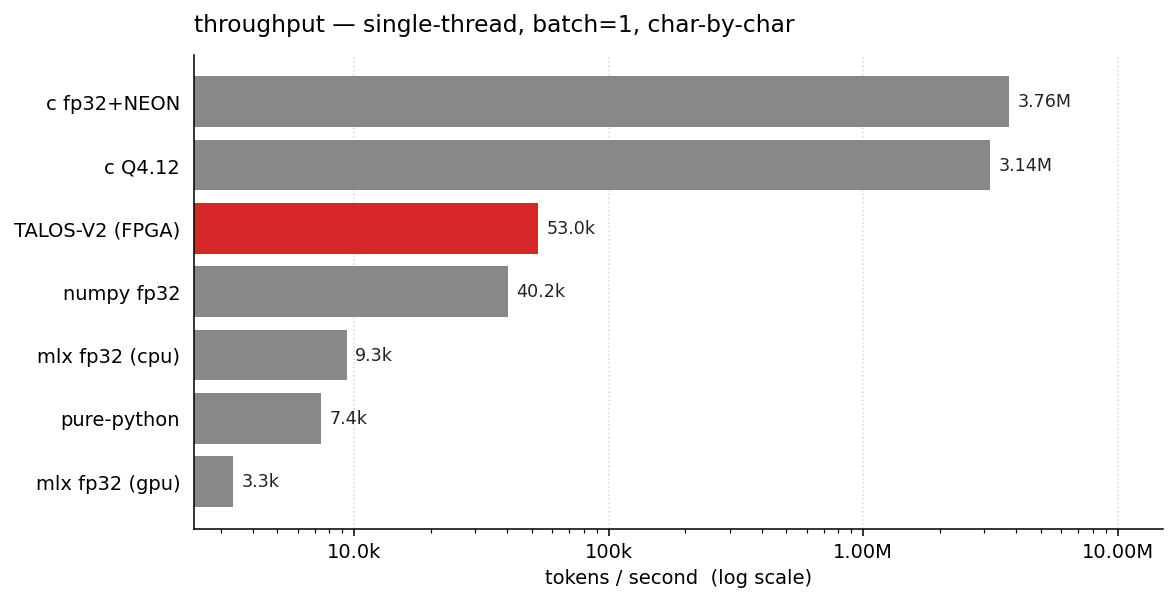
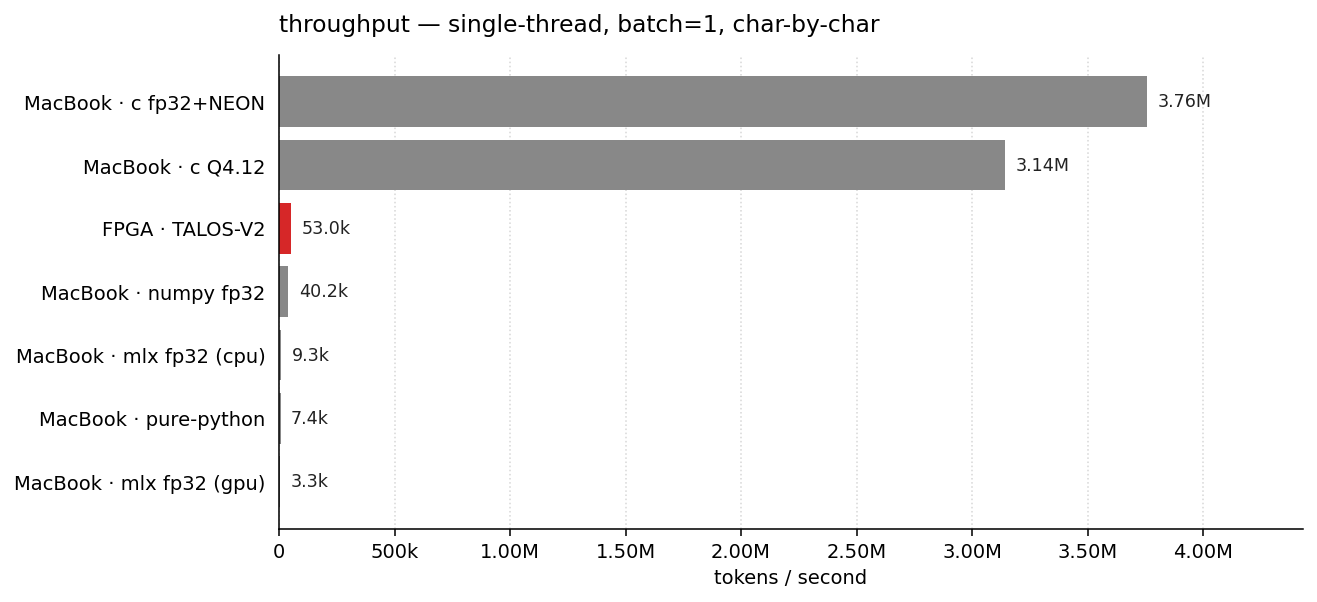
make charts honest - linear scale, MacBook/FPGA prefixes
Log scale was visually flattening the 70x throughput gap. Linear scale
shows TALOS as the small red sliver it actually is next to the C bars.
Labels now prefix each impl with "MacBook ·" or "FPGA ·" so the platform
is unambiguous.

diff --git a/make_charts.py b/make_charts.py
@@ -15,13 +15,13 @@ import matplotlib.ticker as mtick
 # Power is rough: ~5 W per active M4 Max core (Apple's published per-core
 # numbers under SIMD load); ~2 W for the Cyclone V FPGA fabric on the DE1-SoC.
 RESULTS = [
-    ("pure-python",         7_430,    5.0),
-    ("numpy fp32",         40_244,    5.0),
-    ("mlx fp32 (cpu)",      9_350,    5.0),
-    ("mlx fp32 (gpu)",      3_337,    5.0),
-    ("c fp32+NEON",     3_756_165,    5.0),
-    ("c Q4.12",         3_143_586,    5.0),
-    ("TALOS-V2 (FPGA)",    53_000,    2.0),
+    ("MacBook · pure-python",       7_430,    5.0),
+    ("MacBook · numpy fp32",       40_244,    5.0),
+    ("MacBook · mlx fp32 (cpu)",    9_350,    5.0),
+    ("MacBook · mlx fp32 (gpu)",    3_337,    5.0),
+    ("MacBook · c fp32+NEON",   3_756_165,    5.0),
+    ("MacBook · c Q4.12",       3_143_586,    5.0),
+    ("FPGA · TALOS-V2",            53_000,    2.0),
 ]
 
 OUT = "charts"
@@ -30,15 +30,14 @@ os.makedirs(OUT, exist_ok=True)
 
 def horizontal_bars(values, title, xlabel, fname):
     labels = [r[0] for r in RESULTS]
-    colors = ["#888" if r[0] != "TALOS-V2 (FPGA)" else "#d62728" for r in RESULTS]
+    colors = ["#d62728" if r[0].startswith("FPGA") else "#888" for r in RESULTS]
     order = sorted(range(len(values)), key=lambda i: values[i])
     labels = [labels[i] for i in order]
     vals = [values[i] for i in order]
     cols = [colors[i] for i in order]
 
-    fig, ax = plt.subplots(figsize=(8.5, 4.4), dpi=140)
+    fig, ax = plt.subplots(figsize=(9.5, 4.4), dpi=140)
     bars = ax.barh(labels, vals, color=cols, edgecolor="none")
-    ax.set_xscale("log")
     ax.set_xlabel(xlabel)
     ax.set_title(title, loc="left", fontsize=12, pad=12)
     ax.spines[["top", "right"]].set_visible(False)
@@ -48,9 +47,9 @@ def horizontal_bars(values, title, xlabel, fname):
     ax.set_axisbelow(True)
 
     xmax = max(vals)
-    ax.set_xlim(right=xmax * 4.0)
+    ax.set_xlim(left=0, right=xmax * 1.18)
     for bar, v in zip(bars, vals):
-        ax.text(v * 1.08, bar.get_y() + bar.get_height() / 2,
+        ax.text(v + xmax * 0.012, bar.get_y() + bar.get_height() / 2,
                 _fmt(v, 0), va="center", ha="left", fontsize=9, color="#222")
 
     fig.tight_layout()
@@ -74,12 +73,12 @@ ppw = [r[1] / r[2] for r in RESULTS]
 horizontal_bars(
     tps,
     "throughput — single-thread, batch=1, char-by-char",
-    "tokens / second  (log scale)",
+    "tokens / second",
     "throughput.png",
 )
 horizontal_bars(
     ppw,
     "perf-per-watt — same workload, rough power estimates",
-    "tokens / second / watt  (log scale)",
+    "tokens / second / watt",
     "perf_per_watt.png",
 )